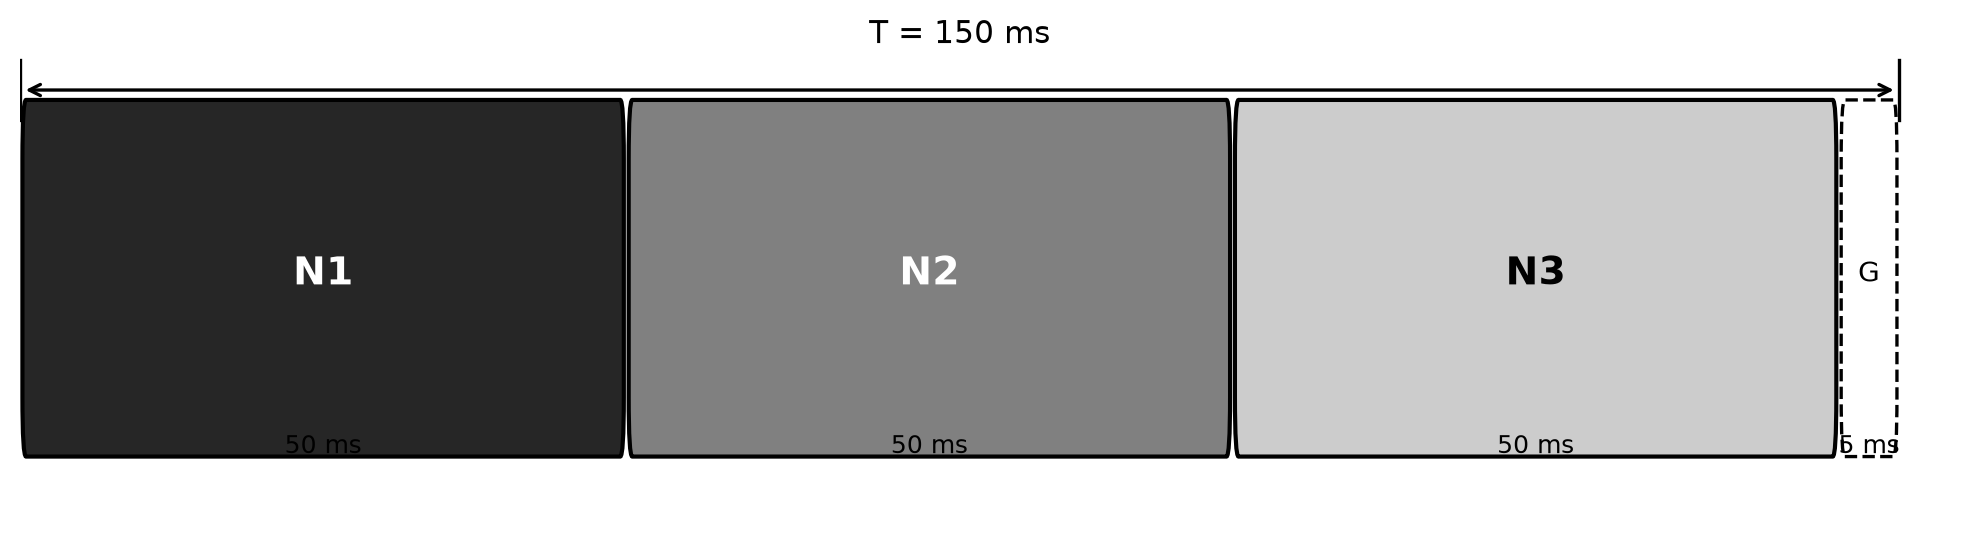
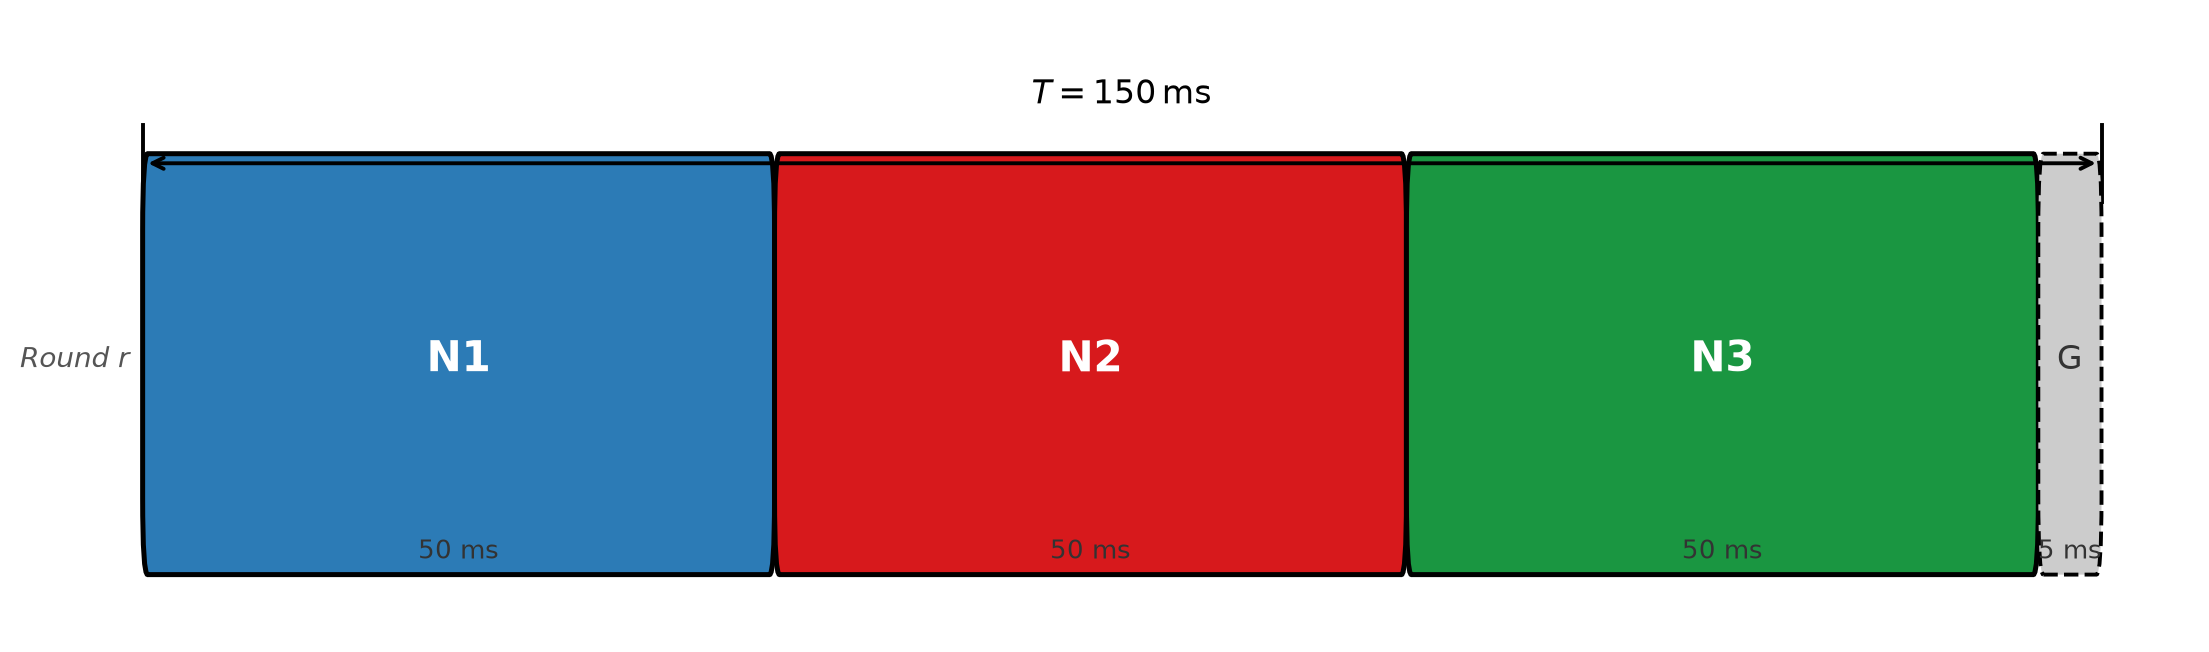
chapter2: fix delay-function timing sentence; colorize TDMA round figure
Added explicit "Before a node starts transmitting at the beginning of its
slot, all packet delay estimates recorded during the previous round are
analysed" paragraph. Regenerated fig_tdma_round with blue/red/green slots.

https://claude.ai/code/session_01DutZkEqJEp4sihDSk72qLg

diff --git a/thesis/chapter2.tex b/thesis/chapter2.tex
@@ -212,10 +212,10 @@ for $\delta_k$:
 \label{eq:delay-full}
 \end{equation}
 
-At the end of each round, before the node begins transmitting in the
-next round, all delay estimates accumulated during that round are passed
-to a delay function $f$ that distils them into a single representative
-value. Three choices are defined:
+Before a node starts transmitting at the beginning of its slot, all
+packet delay estimates recorded during the previous round are analysed
+and a delay function $f$ is used to determine the shift to apply. Three
+methods are defined for this analysis:
 
 \begin{description}
 \item[Minimum delay] Uses the smallest observed $\delta_k$. The slot
